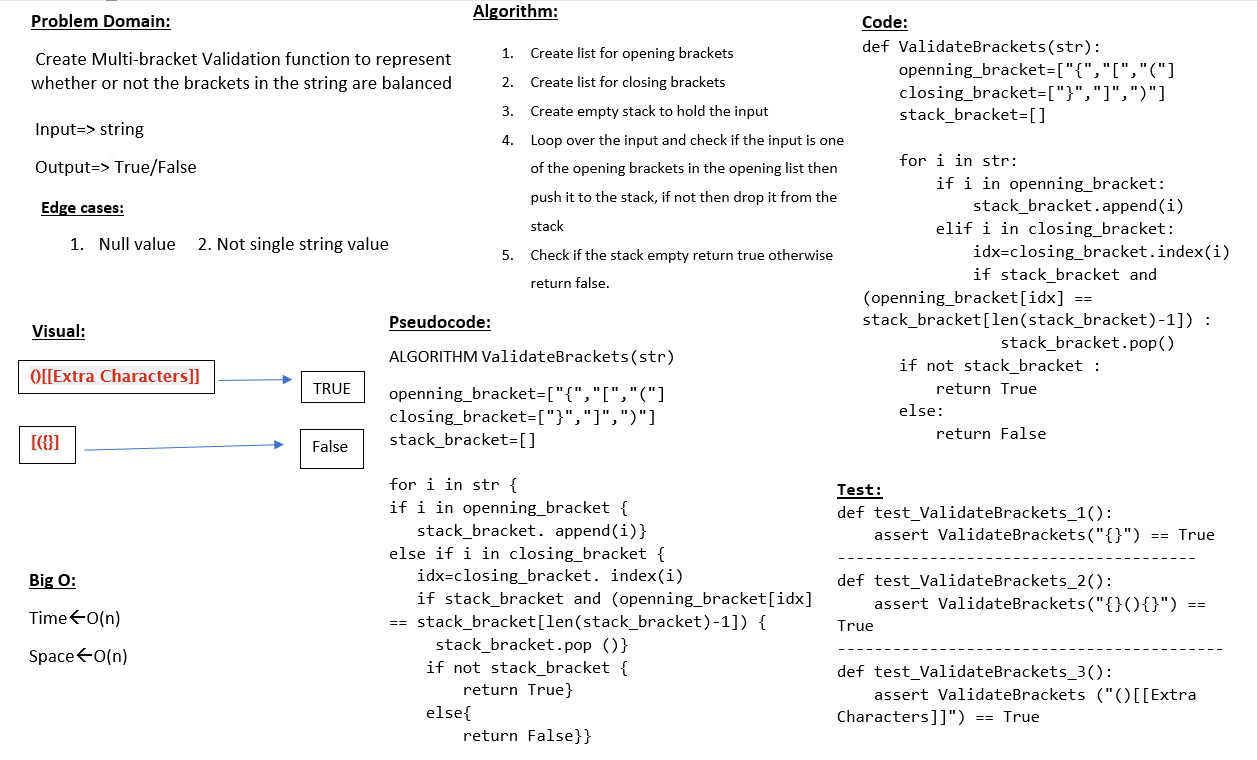
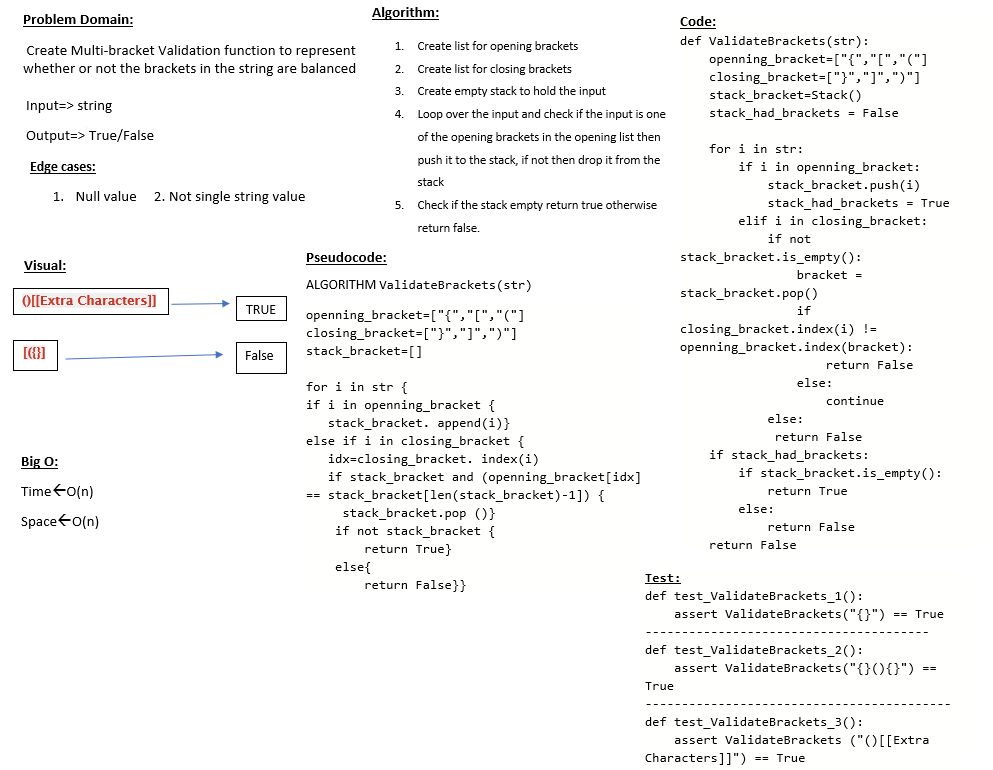
fix stack

diff --git a/python/code_challenges/stack_queue_brackets/stack_queue_brackets.py b/python/code_challenges/stack_queue_brackets/stack_queue_brackets.py
@@ -1,3 +1,4 @@
+from stack_and_queue.stack import Stack
 def ValidateBrackets(str):
     """
     Multi-bracket Validation: help you to represent whether or not the brackets in the string are balanced
@@ -8,19 +9,29 @@ def ValidateBrackets(str):
     """
     openning_bracket=["{","[","("]
     closing_bracket=["}","]",")"]
-    stack_bracket=[]
+    stack_bracket=Stack()
+    stack_had_brackets = False
 
     for i in str:
         if i in openning_bracket:
-            stack_bracket.append(i)
+            stack_bracket.push(i)
+            stack_had_brackets = True
         elif i in closing_bracket:
-            idx=closing_bracket.index(i)
-            if stack_bracket and (openning_bracket[idx] == stack_bracket[len(stack_bracket)-1]) :
-               stack_bracket.pop()
-    if not stack_bracket :
-        return True
-    else:
-        return False
+            if not stack_bracket.is_empty():
+                bracket = stack_bracket.pop()
+                if closing_bracket.index(i) != openning_bracket.index(bracket):
+                    return False
+                else:
+                    continue
+            else:
+             return False
+    if stack_had_brackets:
+        if stack_bracket.is_empty():
+            return True
+        else:
+            return False
+    return False
+
 
 
 
